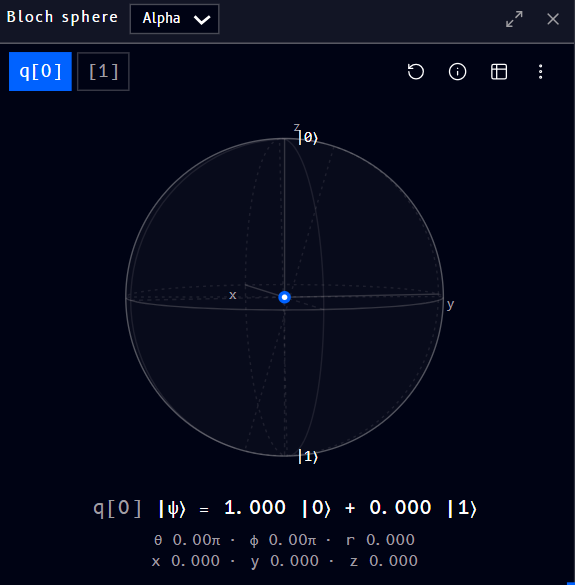
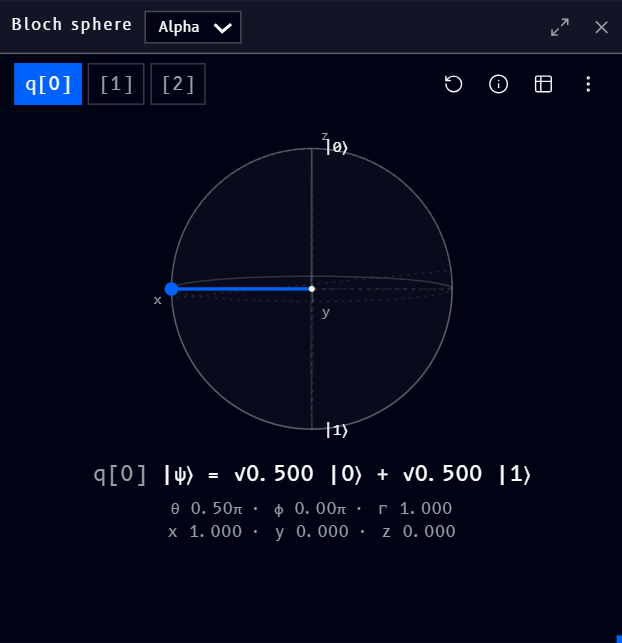
Reorder nav, add QCAP certificate page, refresh Qanvas screenshots, wire up custom domain

diff --git a/docs/qcap/tour/certificate.md b/docs/qcap/tour/certificate.md
@@ -1,0 +1,29 @@
+# Certificate
+
+The **Certificate** card sits at the bottom of the [progress panel](overview.md#progress-panel), directly below "Track your progress."
+
+- A lock icon and the card's title, **Certificate**, appear above a preview of the certificate itself
+- While you haven't met the requirement, that preview is shown blurred out, so you can see roughly what a certificate looks like without being able to read or use it
+- Underneath, a caption explains exactly what's needed: *"Complete all modules with an average grade of 70% or higher to unlock your certificate."*
+
+## Unlocking it
+
+The certificate is tied to your overall standing across the whole QCAP track, the same numbers summarized at the top of the progress panel:
+
+- **All modules complete** - every module in the [sidebar](overview.md#sidebar) list, `History` through `Future`, needs to be finished, not just started
+- **Average grade of 70% or higher** - based on the graded items shown on the [Grades](grades.md) page, weighted the same way as your overall grade there
+
+Until both conditions are true, the card stays locked. Once they are, the blur lifts and the certificate becomes available.
+
+## What you get
+
+Once unlocked, the card lets you download an actual PDF, a **Certificate of Completion**, and gives anyone else a way to verify it:
+
+![Certificate of Completion PDF next to its Certificate Verification page](../images/certificate.png)
+
+- **Certificate of Completion** (left) - a Qucan-branded PDF certifying that you've completed the QCAP (Quantum Computing Acceleration Program), described on the certificate itself as a professional certification covering quantum computing foundations, core concepts, applications, and advanced topics, delivered online through a mix of live and self-paced material with industry-agnostic modules. It lists the **program duration** (60 hours, 12 weeks), your **completion grade**, a unique **certificate number** (formatted `QUCAN-<year>-<code>`, for example `QUCAN-2026-PMNVFH`), the **issue date**, and is signed by Qucan's co-founders, Arda Abay and Juan Rodriguez.
+- A QR code printed on the PDF links straight to that certificate's **verification page**.
+- **Certificate Verification** (right) - the page the QR code (or a direct link) opens. It repeats who the certificate was given to, the program, the completion date, and the certificate number, alongside a **Verified - Issued by QUCAN** badge and its own **Download** button to get the PDF again.
+
+!!! note
+    Because every certificate number is unique, the verification page also works as a way for someone else, an employer, for instance, to confirm a certificate is genuine without needing to log in to QCAP.

diff --git a/docs/qcap/tour/modules.md b/docs/qcap/tour/modules.md
@@ -15,10 +15,10 @@ Every module in the [sidebar](overview.md#sidebar) opens to the same kind of pag
 
 ## Most other modules: coming soon
 
-The rest of the module list, **Foundations**, **Math**, **Core**, **Python**, **Mechanics**, **Protocols**, **Qiskit**, **Algorithms**, **Hardware**, **QEC**, **Applications**, **Future**, currently shows a placeholder version of the same page anatomy instead of finished lessons:
+The rest of the module list, **Foundations**, **Math**, **Core**, **Python**, **Mechanics**, **Protocols**, **Qiskit**, **Algorithms**, **Hardware**, **QEC**, **Applications**, **Future**, currently shows a shorter introductory version of the same page layout while the full lessons are being added:
 
 - A banner: *"Detailed content for `<module>` is coming soon. This module is part of the QCAP track and will be available shortly."*
-- The same three generic learning objectives on every placeholder module: build foundational intuition for it, connect it to the broader QCAP curriculum, and prepare for hands-on practice in upcoming modules
+- The same three general learning objectives on every one of these modules: build foundational intuition for it, connect it to the broader QCAP curriculum, and prepare for hands-on practice in upcoming modules
 - A single **Part 1 - Overview**, with one reading, `Introduction to <module>` (8 min), and sometimes a quiz (**Math**'s Part 1 also has a `Quiz: Math` item, **Foundations**' doesn't)
 
-So progress on a placeholder module reads as `0m of videos left`, `8m of readings left`, and either `0 quizzes left` or `1 quiz left` depending on whether that module has its quiz yet.
+So progress on one of these modules reads as `0m of videos left`, `8m of readings left`, and either `0 quizzes left` or `1 quiz left` depending on whether that module has its quiz yet.

diff --git a/docs/qanvas/tour/bloch-sphere-block.md b/docs/qanvas/tour/bloch-sphere-block.md
@@ -4,13 +4,17 @@ The **Bloch sphere** block (found under [Quantum](tools.md#quantum) in the Tools
 
 ## Picking a qubit
 
-A circuit usually has more than one qubit, so tabs across the top let you switch which qubit's reduced state the sphere is showing, here **q[1]**:
+A circuit usually has more than one qubit, so tabs across the top let you switch which qubit's reduced state the sphere is showing. Here's a 3-qubit **Alpha** circuit, first with **q[0]** selected:
 
-![Bloch sphere block showing q[1], with an info tooltip explaining the view](../images/quantum/bloch-sphere-q1.png)
+![Bloch sphere block for circuit Alpha, showing q[0] as an equal superposition](../images/quantum/bloch-sphere-q0.png)
 
-...and here **q[0]** on the same circuit:
+Its point sits on the equator, halfway between \( |0\rangle \) and \( |1\rangle \), matching the equation underneath: \( |\psi\rangle = \sqrt{0.5}\,|0\rangle + \sqrt{0.5}\,|1\rangle \), an equal superposition.
 
-![Bloch sphere block showing q[0]](../images/quantum/bloch-sphere-q0.png)
+...and here's the same circuit with **q[1]** selected instead:
+
+![Bloch sphere block for circuit Alpha, showing q[1] resting at the north pole](../images/quantum/bloch-sphere-q1.png)
+
+This qubit's vector points straight up to \( |0\rangle \), matching \( |\psi\rangle = 1\,|0\rangle + 0\,|1\rangle \), a definite state with no superposition.
 
 !!! note
     The exact numbers shown above are just illustrations of the UI, not a worked example, don't read them as a specific claim about what any particular circuit produces.

diff --git a/docs/qanvas/tour/assets.md b/docs/qanvas/tour/assets.md
@@ -11,7 +11,7 @@ Two buttons sit at the top of the panel:
 - **Save file** - saves the current workspace (same action as [Save file in the top bar](customizing.md))
 - **Upload** - opens a file picker to bring a file in, the same as dragging one onto the canvas
 
-Below them, you can also **drop files directly** onto the panel. The supported types are listed right there: `.qanvas`, images, PDF, `.py`, `.qasm`/`.qasm3`, and `.ipynb` (Jupyter notebooks).
+Below them, you can also **drop files directly** onto the panel. The supported types are listed right there: `.qanvas`, images, PDF, `.py`, and `.qasm`/`.qasm3`.
 
 <div class="doc-image-end"></div>
 
@@ -21,4 +21,4 @@ This lists other **.qanvas workspace files** you've saved, each with when it was
 
 ## Other files
 
-This lists standalone files you've uploaded into **this** workspace, images, PDFs, Python scripts, OpenQASM files, and notebooks, so you can drag one onto the canvas again (as an [Upload block](upload-blocks.md)) without re-uploading it. It starts out empty, "No uploaded files yet", until you upload or drop something.
+This lists standalone files you've uploaded into **this** workspace, images, PDFs, Python scripts, and OpenQASM files, so you can drag one onto the canvas again (as an [Upload block](upload-blocks.md)) without re-uploading it. It starts out empty, "No uploaded files yet", until you upload or drop something.

diff --git a/docs/index.md b/docs/index.md
@@ -1,5 +1,11 @@
 # Documentation
 
-Welcome to the docs. This is a quantum computing platform made up of several modules, accessible from the tabs above: **Qompile**, **Dashboard**, **QCAP**, **Qanvas**, and **Sqope**.
+Welcome to the docs. This is a quantum computing platform made up of several modules, accessible from the tabs above:
 
-Qompile is the most fully documented module so far - start there: [What is Qompile?](qompile/what-is-it.md)
+| Module | What it's for |
+|---|---|
+| **[Dashboard](dashboard/index.md)** | Landing page after signing in, quick links to every module plus popular examples |
+| **[QCAP](qcap/index.md)** | Structured learning path through quantum computing, organized into modules, live sessions, grades, and a certificate on completion |
+| **[Qanvas](qanvas/index.md)** | Freeform, whiteboard-style workspace for combining shapes, files, and quantum building blocks on one canvas |
+| **[Qompile](qompile/index.md)** | Browser-based quantum circuit composer - build circuits by drag-and-drop or code, and explore live visualizations |
+| **[Sqope](sqope/index.md)** | Feed of quantum computing news, research, and conversations |

diff --git a/docs/qcap/tour/overview.md b/docs/qcap/tour/overview.md
@@ -21,4 +21,4 @@ Selecting a module shows its page, description, learning objectives, progress, a
 
 ## Progress panel
 
-To the right, **Track your progress** summarizes your standing across the whole track: an overall completion percentage, how many of the 13 modules you've finished, and your average grade. Below it, a **Certificate** card stays locked (shown blurred) until you complete every module with an average grade of 70% or higher.
+To the right, **Track your progress** summarizes your standing across the whole track: an overall completion percentage, how many of the 13 modules you've finished, and your average grade. Below it, a **Certificate** card stays locked (shown blurred) until you complete every module with an average grade of 70% or higher, see [Certificate](certificate.md).

diff --git a/docs/qanvas/tour/upload-blocks.md b/docs/qanvas/tour/upload-blocks.md
@@ -1,6 +1,6 @@
 # Upload blocks
 
-Four block types under [Upload](tools.md#upload) bring outside files onto the canvas: **Image**, **PDF**, **Python**, and **OpenQASM**. Each starts as an empty placeholder you drop a file onto (or, for Python and OpenQASM, write directly), and can be expanded to a fullscreen view.
+Four block types under [Upload](tools.md#upload) bring outside files onto the canvas: **Image**, **PDF**, **Python**, and **OpenQASM**. Each starts as an empty drop zone you drop a file onto (or, for Python and OpenQASM, write directly), and can be expanded to a fullscreen view.
 
 ## Image
 

diff --git a/docs/sqope/tour/overview.md b/docs/sqope/tour/overview.md
@@ -19,4 +19,4 @@ Pagination controls (`< 1 2 3 >`) sit below the feed to page through older artic
 Alongside the feed, a **Most read this month** panel ranks the top articles by readership, each entry links straight to that article.
 
 !!! note
-    The specific article titles used in examples elsewhere are just placeholders to illustrate the card layout, not real Sqope content or a claim about what's actually published.
+    The specific article titles used in examples elsewhere are just stand-ins to illustrate the card layout, not real Sqope content or a claim about what's actually published.

diff --git a/docs/qompile/gates/identity.md b/docs/qompile/gates/identity.md
@@ -2,7 +2,7 @@
 
 ![Identity gate tile from the Operations catalog](../images/gates/identity.png){ .gate-tile }
 
-The **identity gate** does nothing to the qubit's state. It exists so a wire can have an explicit, visible placeholder operation - for example to pad a circuit's timing/layout - without changing what the qubit represents.
+The **identity gate** does nothing to the qubit's state. It exists so a wire can have an explicit, visible gate - for example to pad a circuit's timing/layout - without changing what the qubit represents.
 
 | | |
 |---|---|
